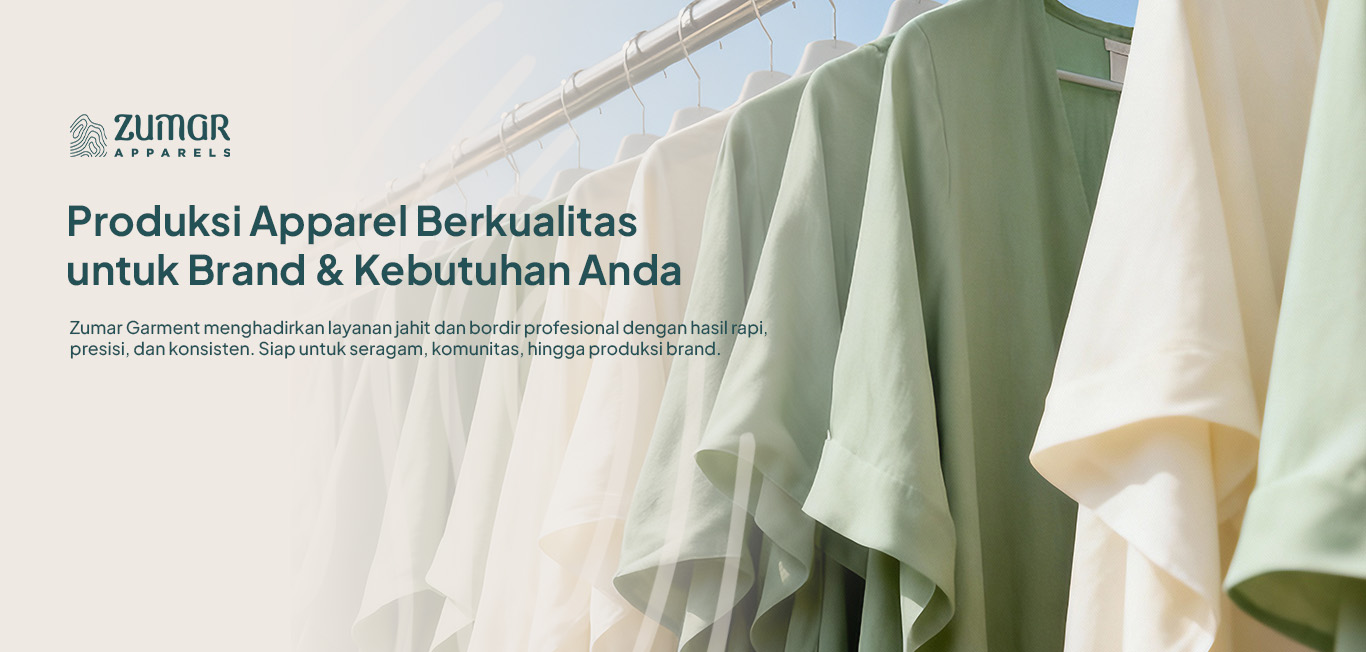
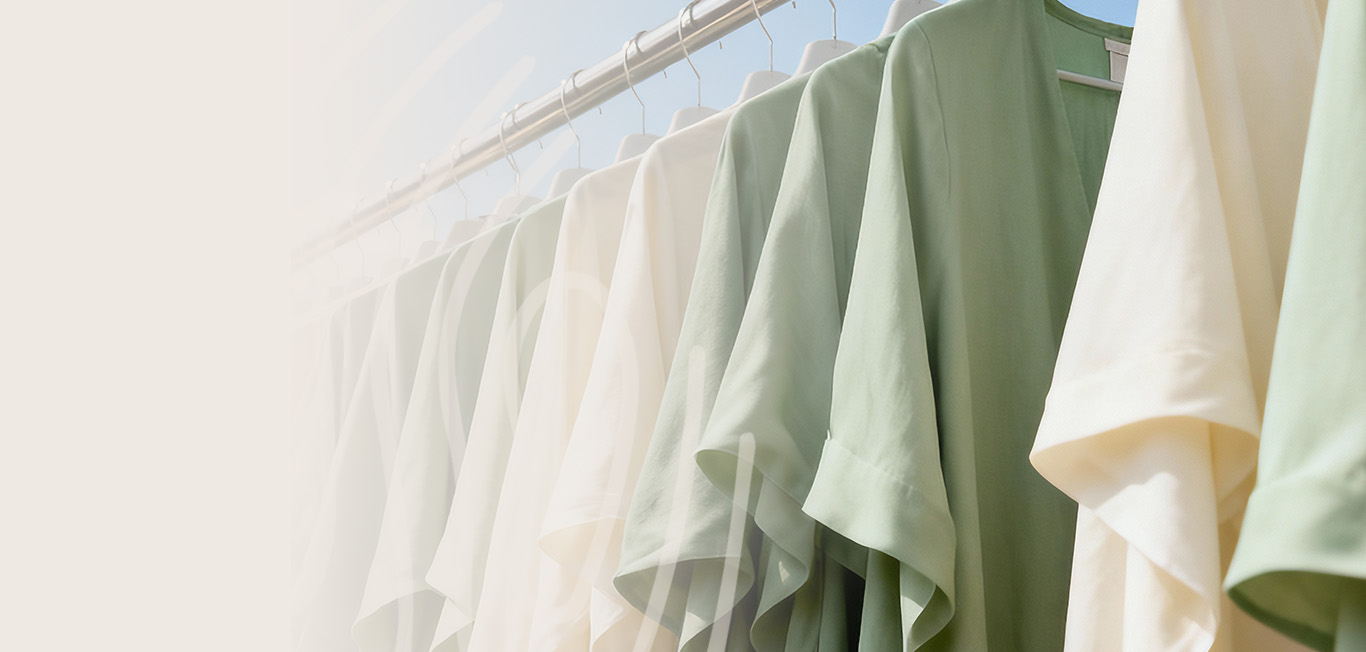
update konten

Changed region(s): [[0.0307, 0.3067, 0.5227, 0.4601], [0.0307, 0.4908, 0.5534, 0.5521], [0.0307, 0.1534, 0.1845, 0.2454]]

diff --git a/src/admin/pages/Inventory/InventoryList.jsx b/src/admin/pages/Inventory/InventoryList.jsx
@@ -128,17 +128,17 @@ function CustomDropdown({ label, options, value, onChange, placeholder, searchPl
   return (
     <div className="flex items-center w-auto">
       <span className="px-4 py-2 bg-[#295B5B] text-white font-bold rounded-l-xl border border-[#295B5B] border-r-0 text-base flex items-center justify-center" style={{ height: height, minWidth: labelMinWidth, lineHeight: height }}>{label}</span>
-      <div className={`relative w-[${width}] md:w-[${mdWidth}]`}>
+      <div className="relative" style={{ width: width, minWidth: width, maxWidth: mdWidth }}>
         <button
           ref={btnRef}
           type="button"
           className="appearance-none w-full px-3 py-2 border border-[#295B5B] border-l-0 bg-white text-[#BDBDBD] font-semibold rounded-r-xl focus:outline-none focus:ring-2 focus:ring-secondaryColor h-[38px] text-sm flex items-center justify-between"
           onClick={() => setOpen(o => !o)}
         >
-          <span className={value ? 'text-black truncate' : 'text-[#BDBDBD]'}>
+          <span className={`${value ? 'text-black' : 'text-[#BDBDBD]'} truncate block flex-1 text-left mr-2`}>
             {value ? selectedOption?.label : placeholder}
           </span>
-          <ChevronDownIcon className="w-4 h-4 text-[#BDBDBD] ml-2" />
+          <ChevronDownIcon className="w-4 h-4 text-[#BDBDBD] flex-shrink-0" />
         </button>
         {open && (
           <div ref={dropdownRef} className="absolute z-10 mt-1 w-full bg-white border border-gray-200 rounded-xl shadow-lg max-h-60 overflow-y-auto focus:outline-none">
@@ -544,16 +544,22 @@ const InventoryList = () => {
             {/* Filter Kategori */}
             <CustomDropdown
               label="Kategori"
-              options={categories.map(cat => ({ value: cat.icId, label: cat.icName }))}
+              options={[
+                { value: '', label: 'Semua Kategori' },
+                ...categories.map(cat => ({ value: cat.icId, label: cat.icName }))
+              ]}
               value={selectedCategory}
-              onChange={val => { setSelectedCategory(val); setPage(1); }}
+              onChange={val => { setSelectedCategory(val); setSelectedSubCategory(''); setPage(1); }}
               placeholder="Tentukan Kategori"
               searchPlaceholder="Cari kategori..."
             />
             {/* Filter Barang */}
             <CustomDropdown
               label="Barang"
-              options={filteredSubCategories.map(sub => ({ value: sub.isId, label: sub.isName }))}
+              options={[
+                { value: '', label: 'Semua Barang' },
+                ...filteredSubCategories.map(sub => ({ value: sub.isId, label: sub.isName }))
+              ]}
               value={selectedSubCategory}
               onChange={val => { setSelectedSubCategory(val); setPage(1); }}
               placeholder="Tentukan Barang"

diff --git a/src/components/Carousel.jsx b/src/components/Carousel.jsx
@@ -2,7 +2,7 @@ import { useState, useEffect, useRef, useCallback } from "react";
 import { ChevronLeftIcon, ChevronRightIcon } from "@heroicons/react/24/solid";
 import clsx from "clsx";
 
-export default function Carousel({ slides, rightContent, navigationPosition = "content", autoPlay = true, autoPlayInterval = 4000, height = "h-[90vh]" }) {
+export default function Carousel({ slides, rightContent, navigationPosition = "content", autoPlay = false, autoPlayInterval = 4000, height = "h-[90vh]" }) {
   const [current, setCurrent] = useState(0);
   const timeoutRef = useRef(null);
 
@@ -29,28 +29,28 @@ export default function Carousel({ slides, rightContent, navigationPosition = "c
         {slides.map((slide, idx) => (
           <div
             key={slide.id}
-            className="w-full h-full flex-shrink-0 bg-cover bg-center flex items-center relative"
-            style={{ backgroundImage: `url(${slide.image})` }}
+            className="w-full h-full flex-shrink-0 bg-cover flex items-center relative"
+            style={{ backgroundImage: `url(${slide.image})`, backgroundPosition: slide.backgroundPosition || 'center' }}
           >
             {/* Overlay */}
             <div className="absolute inset-0 bg-black/50 z-0" />
             <div className="max-w-7xl w-full mx-auto px-10 md:px-20 flex items-center h-full relative z-10">
               {/* Kiri: Teks */}
               <div className="w-full md:w-1/2 text-white relative">
-                <h2 className="text-2xl md:text-5xl font-semibold font-poppins whitespace-pre-line leading-tight">
+                <h2 className="text-2xl md:text-3xl font-semibold font-poppins whitespace-pre-line">
                   {slide.title}
                 </h2>
                 <p className="text-sm md:text-base max-w-md text-white font-montserrat font-light mt-5">
                   {slide.description}
                 </p>
                 {slide.cta && (
-                  <button className="mt-40 font-montserrat text-sm inline-block px-6 py-3 bg-primaryColor hover:bg-secondaryColor text-white rounded-full shadow-lg md:font-semibold">
+                  <button className="mt-4 font-montserrat text-sm inline-block px-6 py-3 bg-primaryColor hover:bg-secondaryColor text-white rounded-full shadow-lg md:font-semibold">
                     {slide.cta}
                   </button>
                 )}
                 {/* Bullet navigation di bawah CTA jika navigationPosition !== 'center' */}
                 {navigationPosition !== "center" && (
-                  <div className="flex gap-3 mt-8">
+                  <div className="flex gap-3 mt-4">
                     {slides.map((_, i) => (
                       <button
                         key={i}

diff --git a/src/pages/Home.jsx b/src/pages/Home.jsx
@@ -25,22 +25,23 @@ import categoryImage4 from "../assets/Image/Beranda_Sec_3_Non Apparel.jpg";
 const homeSlides = [
   {
     id: 1,
-    title: "",
-    description: "",
+    title: "Produksi Apparel Berkualitas untuk Brand & Kebutuhan Anda",
+    description: "Zumar Garment menghadirkan layanan jahit dan bordir professional dengan hasil rapi, presisi, dan konsisten. Siap untuk seragam, komunitas, hingga produksi brang.",
     cta: "Pesan dulu aja",
     image: sliderImage1,
   },
   {
     id: 2,
-    title: "",
-    description: "",
+    title: "Tingkatkan Tampilan Kerja Anda",
+    description: "dengan Seragam yang Dirancang Nyaman dan Tetap Stylish",
     cta: "Pesan Sekarang",
     image: sliderImage2,
+    backgroundPosition: 'center 0%',
   },
   {
     id: 3,
-    title: "",
-    description: "",
+    title: "Fleksibel untuk Setiap Skala Produksi",
+    description: "Mulai dari 1pcs hingga ribuan pcs, Zumar siap menyesuaikan kebutuhan Anda dengan kualitas konsisten, proses transparan, dan timeline yang jelas.",
     cta: "Mulai Sekarang",
     image: sliderImage3,
   },
